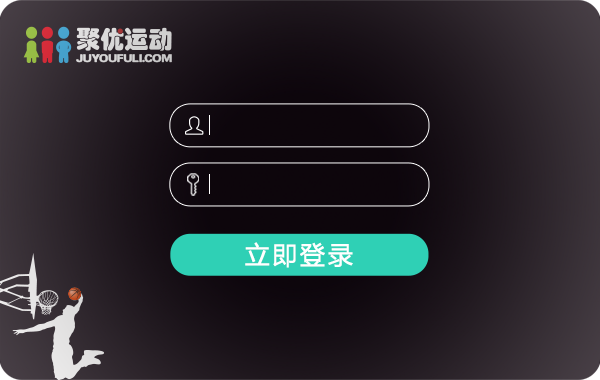
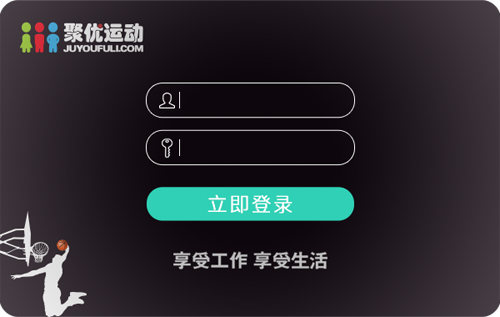
生活首页hover效果

Changed region(s): [[0.27, 0.2555, 0.72, 0.7382], [0.33, 0.795, 0.66, 0.8517]]

diff --git a/css/juyoufuli/public.css b/css/juyoufuli/public.css
@@ -10,7 +10,7 @@ html{position: relative;height: 100%;}
 .f_r{float: right;}
 li{list-style: none;}
 .o_hidden{overflow: hidden;}
-.margin_top_90{margin-top: 90px;}
+.margin_top_90{margin-top: 80px;}
 .text_left{text-align: left!important;}
 table tr td{vertical-align: middle;}
 .margin_left_100{display: inline-block;margin-left: 100px;}
@@ -702,7 +702,9 @@ body {
 	padding: 0 15px;
 }
 
-html.movie .newsimg {}
+html.movie .newsimg {
+    overflow: hidden;
+}
 
 html.movie .newsimg .banner ul li img {
 	display: block;
@@ -731,6 +733,7 @@ html.movie .reying .reying_title {
 	padding: 0 10px 20px 10px;
 	/* position: relative; */
 	padding-top: 20px;
+	margin-top: 0px!important;
 }
 
 html.movie .reying .reying_news {
@@ -1038,8 +1041,8 @@ html.movie .w_1200 .will .will_show .will_show2 {
 }
 
 html.movie .w_1200 .will_show .will_img {
-	width: 200px;
-	height: 280px;
+	/* width: 200px; */
+	/* height: 280px; */
 }
 
 html.movie .w_1200 .will_show .will_show1 {
@@ -1055,6 +1058,7 @@ html.movie .w_1200 .will_show .will_show1 ul li {
 html.movie .w_1200 .will_show .will_show1 .title {
 	color: #2fd0b5;
 	font-size: 24px;
+	margin-top: 0px;
 }
 
 html.movie .w_1200 .will_show .will_show1 ul li span {
@@ -2134,7 +2138,7 @@ html.huaju .huaju_box .box .xinxi_box li span.xuanzuo{
 .search .search_1200 .search_input{
     border: 1px solid white;
     background: white;
-    margin-top: 4px;
+    margin-top: 6px;
     border-radius: 20px;
 }
 .search .search_1200 .search_input input{
@@ -2143,8 +2147,9 @@ html.huaju .huaju_box .box .xinxi_box li span.xuanzuo{
     border-radius: 20px;
     outline: none;
     border: none;
-    padding: 4px 15px;
+    padding: 2px 15px;
     width: 200px;
+    height: 22px;
 }
 .search .search_1200 .search_input i{
 	display: inline-block;
@@ -2586,7 +2591,7 @@ html.huaju4 .w_1200 .pay_success .tips{width: 615px;margin: 20px auto;color:#ff7
 .infoList a{margin-left: 10px;}
 
 .floor_item img{width: 100%;height: 100%;}
-.floor_box{margin: 0 auto;width: 175px;height: 175px;}
+.floor_box{margin: 0 auto;width: 175px;height: 175px; transition: all .5s linear;}
 .color_CF5926{font-weight: 600;color: #CF5926;}
 #floor_2 .floor_title h4 i{background-position: -46px 0;}
 #floor_3 .floor_title h4 i{background-position: -92px 0;}
@@ -2732,7 +2737,7 @@ html.huaju4 .w_1200 .pay_success .tips{width: 615px;margin: 20px auto;color:#ff7
 html.shenghuo body{background: white;}
 .shenghuo_top_title{color: #1b1919;font-weight: bold;padding: 5px 0;font-size: 16px;width: 180px;position: absolute;text-align: center;left: 5px;bottom: 10px;background: white;opacity: .7;font-family: arial;}
 .shenghuo_floor_side{float: left;height: 461px;width: 268px;/* border-right: 1px solid #ddd; */border: 1px solid #ddd;}
-.shenhuo_box{width: 230px;height: 230px;border-top: 1px solid #ddd;border-right: 1px solid #ddd;}
+.shenhuo_box{overflow: hidden;width: 230px;height: 230px;border-top: 1px solid #ddd;border-right: 1px solid #ddd;}
 .shenghuo_floor_side img{width:100%;max-height: auto;}
 .width_460{width: 461px;height: 230px;}
 .border_left_none{border-left: none;}
@@ -2919,7 +2924,7 @@ html.shenghuo1 body{background: white;}
 .movie_action_left{width: 275px;margin-left: 40px;}
 .movie_action_title{font-family: arial;font-weight: bold;padding-bottom: 5px;width: 275px;border-bottom: 2px solid #ddd;border-left: 4px solid #2fd0b5;text-indent: 18px;font-size: 18px;color: #333;}
 .flash_img{margin: 15px 0;position: relative;}
-.movie_action_content{background: #f4f4f4;margin-top: 10px;padding: 5px;font-size: 12px;color: #808080;}
+.movie_action_content{/* background: #f4f4f4; */margin-top: 10px;padding: 5px;font-size: 12px;color: #808080;}
 .movie_flash{position: fixed;top: 0;left: 0;width:100%;height: 100%;background-color:rgba(1,1,1,.5);z-index: 101;}
 .play_flash{position: absolute;top: 50px;left: 110px;cursor: pointer;}
 .movie_close{position: fixed;width: 30px;height: 30px;background: url(/images/juyoufuli/img_login/play_icon1.png) no-repeat 0px 0px;z-index: 101;top: 50%;left: 50%;margin-top: -230px;margin-left: 367px;cursor: pointer;}
@@ -2954,3 +2959,16 @@ html.shenghuo1 body{background: white;}
 }
 .return_return_img{width: 36px;background: url(/images/juyoufuli/img_login/return_icon1.png) no-repeat -29px 13px;display: block;height: 38px;margin: 0 auto;}
 .return_return_img:hover{background-position: -30px -30px;}
+/* 生活图片hover效果*/
+.shenhuo_box img{transition: all 0.2s linear;}
+.shenhuo_box img:hover{
+	-webkit-transform: translateX(5px);
+    -moz-transform: translateX(5px);
+    -ms-transform: translateX(5px);
+    -o-transform: translateX(5px);
+    transform: translateX(5px);
+	}
+
+/*接口详情样式*/
+.details{overflow: hidden;width: 1000px;margin: 0 auto;}
+.details img{text-align: center!important;}

diff --git a/hy/css/index1.css b/hy/css/index1.css
@@ -455,8 +455,8 @@ img{
 
 #gla form{
 	position: absolute;
-    top: 87px;
-    left: 174px;
+    top: 83px;
+    left: 180px;
 }
 #gla form input{
 	color: white;
@@ -484,7 +484,7 @@ img{
 }
 .form-group {margin-bottom: 0;}
 .gla_inbox form div:nth-child(1){position: absolute;top: 0;}
-.gla_inbox form div:nth-child(2){position: absolute;top: 50px;}
+.gla_inbox form div:nth-child(2){position: absolute;top: 48px;}
 input:-webkit-autofill {
 -webkit-box-shadow: 0 0 0px 1000px transparent inset;
 }

diff --git a/js/juyoufuli/movieSearch.js b/js/juyoufuli/movieSearch.js
@@ -63,7 +63,7 @@ function loacList(param, idClass){
 		type:'POST',
 		data: param,
 		beforeSend:function(){
-			$(idClass).html(" LOADING ... ");
+			$(idClass).html("<center><img src='/images/juyoufuli/img_login/loading.gif'></center>");
 		},
 		success:function( data ){
 			$(idClass).html(data);

diff --git a/css/juyoufuli/fixed.css b/css/juyoufuli/fixed.css
@@ -417,8 +417,8 @@
 	line-height: 1.8em;
 	right: 0;
 	/* height: 120px; */
-	padding-top: 15px;
-	padding-bottom: 15px;
+	/* padding-top: 15px; */
+	/* padding-bottom: 15px; */
 }
 
 .i_date .i_datetab {
